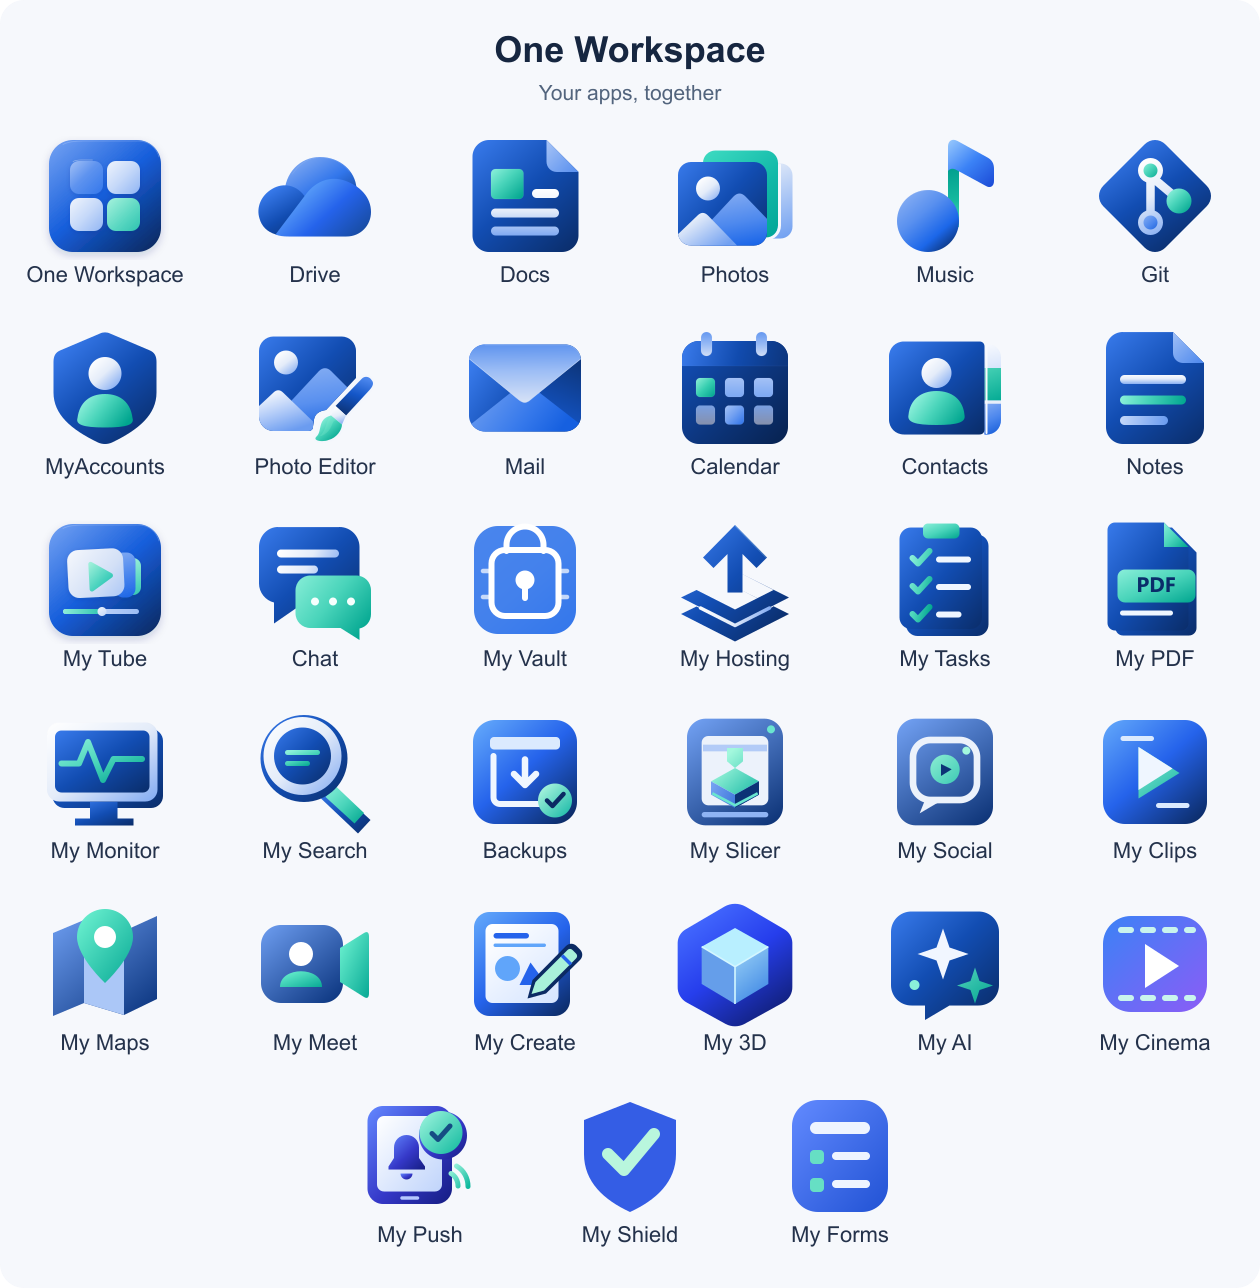
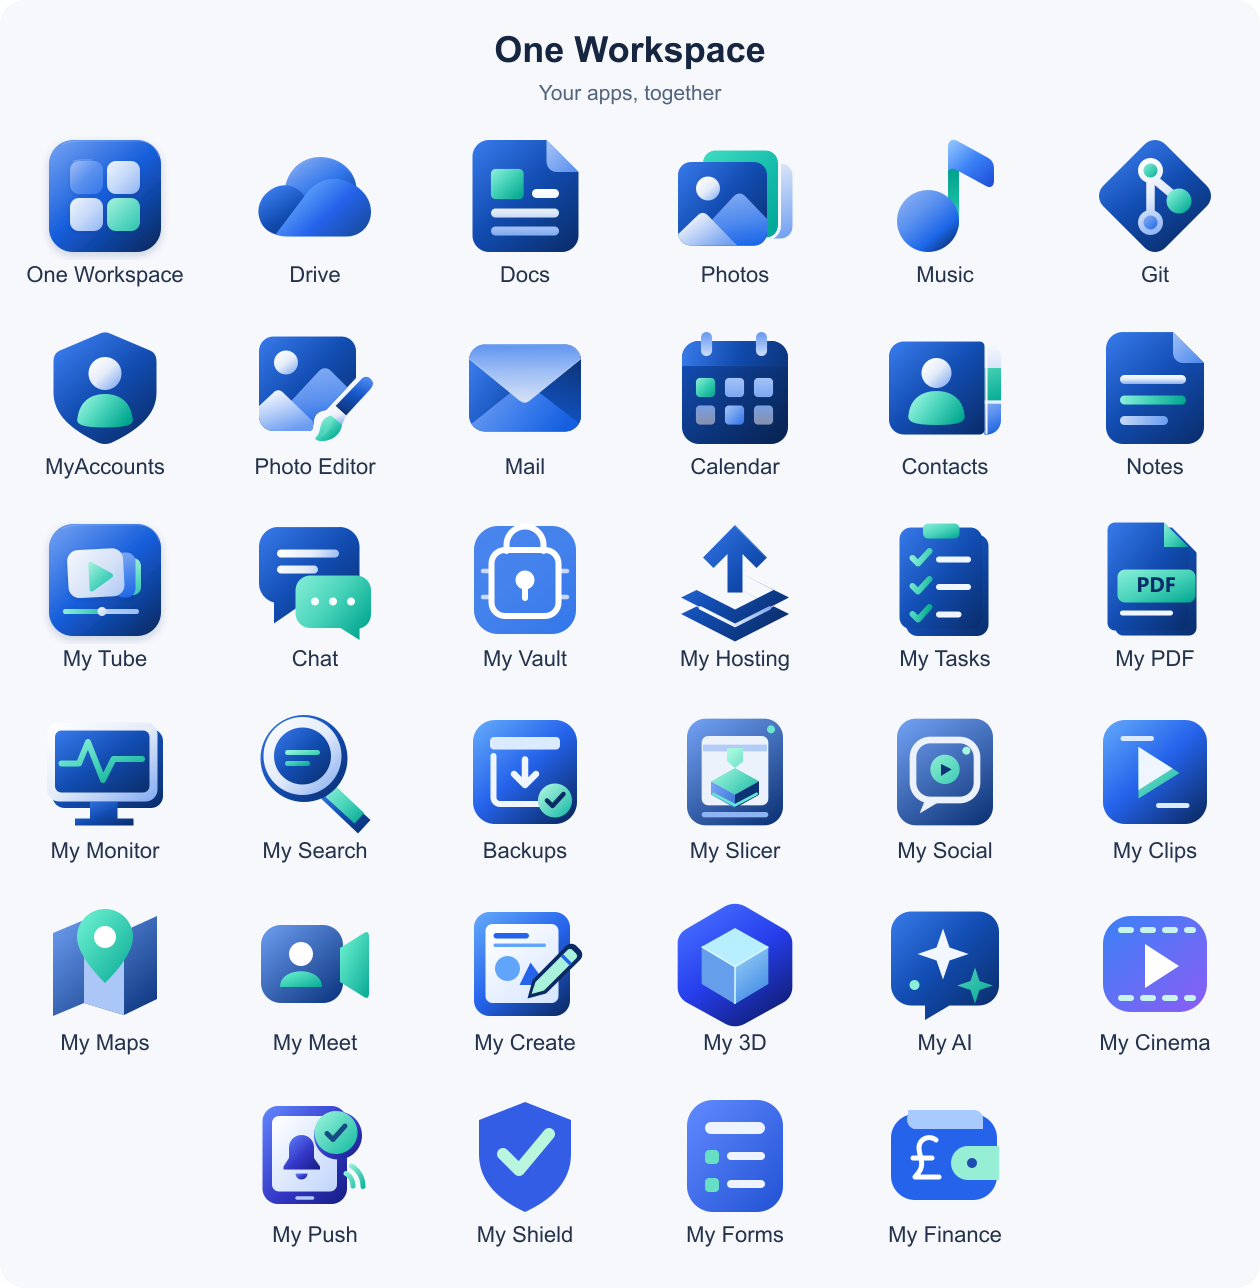
Integrate Actual-backed My Finance with managed identity and protected updates

Changed region(s): [[0.1857, 0.8385, 0.8048, 0.9627]]

diff --git a/docs/branding/index.html b/docs/branding/index.html
@@ -2,6 +2,6 @@
 <html lang="en"><head><meta charset="utf-8"><meta name="viewport" content="width=device-width,initial-scale=1"><title>One Workspace logos</title><link rel="icon" href="../../internal/branding/icons/one_workspace.svg"><style>
 *{box-sizing:border-box}body{margin:0;background:#f4f6fb;color:#17233b;font:16px system-ui,sans-serif}main{max-width:1180px;margin:40px auto;padding:0 26px}header{display:flex;gap:20px;align-items:center;margin-bottom:32px}header img{width:72px;height:72px}h1{font-size:32px;margin:0 0 8px;letter-spacing:-1px}p{margin:0;color:#65718a}.grid{display:grid;grid-template-columns:repeat(4,1fr);gap:20px}article{background:white;border:1px solid #dfe5ef;border-radius:18px;overflow:hidden}h2{font-size:16px;margin:20px}.samples{display:flex;align-items:center;justify-content:center;gap:18px;height:136px;background:repeating-conic-gradient(#edf0f6 0% 25%,white 0% 50%) 50%/20px 20px}.samples img{width:80px;height:80px}.dark{background:#11182a}.small{display:flex;align-items:center;gap:14px;padding:20px;color:#7b879b;font-size:12px}.small img{flex:none}@media(max-width:850px){.grid{grid-template-columns:repeat(2,1fr)}}@media(max-width:450px){.grid{grid-template-columns:1fr}}
 </style></head><body><main><header><img src="../../internal/branding/icons/one_workspace.svg" alt=""><div><h1>One Workspace</h1><p>The complete app collection · shared blue artwork</p></div></header><div class="grid" id="logos"></div></main><script>
-const apps=[["one_workspace","One Workspace"],["my_drive","Drive"],["my_office","Docs"],["my_photos","Photos"],["my_music","Music"],["my_git","Git"],["my_accounts","MyAccounts"],["photo_editor","Photo Editor"],["my_mail","Mail"],["my_calendar","Calendar"],["my_contacts","Contacts"],["my_notes","Notes"],["my_tube","My Tube"],["my_chat","Chat"],["my_vault","My Vault"],["my_hosting","My Hosting"],["my_tasks","My Tasks"],["my_pdf","My PDF"],["my_monitor","My Monitor"],["my_search","My Search"],["backups","Backups"],["my_slicer","My Slicer"],["my_social","My Social"],["my_clips","My Clips"],["my_maps","My Maps"],["my_meet","My Meet"],["my_create","My Create"],["my_3d","My 3D"],["my_ai","My AI"],["my_cinema","My Cinema"],["my_push","My Push"],["my_shield","My Shield"],["my_forms","My Forms"]];
+const apps=[["one_workspace","One Workspace"],["my_drive","Drive"],["my_office","Docs"],["my_photos","Photos"],["my_music","Music"],["my_git","Git"],["my_accounts","MyAccounts"],["photo_editor","Photo Editor"],["my_mail","Mail"],["my_calendar","Calendar"],["my_contacts","Contacts"],["my_notes","Notes"],["my_tube","My Tube"],["my_chat","Chat"],["my_vault","My Vault"],["my_hosting","My Hosting"],["my_tasks","My Tasks"],["my_pdf","My PDF"],["my_monitor","My Monitor"],["my_search","My Search"],["backups","Backups"],["my_slicer","My Slicer"],["my_social","My Social"],["my_clips","My Clips"],["my_maps","My Maps"],["my_meet","My Meet"],["my_create","My Create"],["my_3d","My 3D"],["my_ai","My AI"],["my_cinema","My Cinema"],["my_push","My Push"],["my_shield","My Shield"],["my_forms","My Forms"],["my_finance","My Finance"]];
 document.querySelector('#logos').innerHTML=apps.map(([file,name])=>`<article><h2>${name}</h2><div class="samples"><img src="../../internal/branding/icons/${file}.svg" alt="${name}"></div><div class="samples dark"><img src="../../internal/branding/icons/${file}.svg" alt=""></div><div class="small"><img src="${file}-32.png" width="16" height="16" alt=""><img src="${file}-32.png" width="24" height="24" alt=""><img src="${file}-32.png" width="32" height="32" alt=""><span>16 · 24 · 32</span></div></article>`).join('');
 </script></body></html>

diff --git a/internal/suite/finance_test.go b/internal/suite/finance_test.go
@@ -1,0 +1,36 @@
+package suite
+
+import (
+	"github.com/oneworkspacestudio/one-workspace/internal/branding"
+	"github.com/oneworkspacestudio/one-workspace/internal/catalog"
+	"path/filepath"
+	"strings"
+	"testing"
+)
+
+func TestFinanceManagedIdentityAndProtectedLedger(t *testing.T) {
+	a := catalog.App{ID: "finance", Name: "My Finance", Kind: "process", Package: "finance", Executable: "MyFinance.exe", Port: 9024, Route: "/finance", OIDC: true, Callback: "/finance/auth/callback", Args: []string{"--data", "${DATA}/finance", "--listen", "127.0.0.1:${PORT}", "--origin", "${ORIGIN}/finance", "--no-browser"}}
+	c := NewConfig(Request{Programs: filepath.Join(t.TempDir(), "Programs"), Data: filepath.Join(t.TempDir(), "Private"), Files: filepath.Join(t.TempDir(), "Files"), Port: 23900, Mode: "local"}, catalog.Catalog{Apps: []catalog.App{a}})
+	c.Owner = "synthetic-owner"
+	a = c.Catalog.Apps[0]
+	if a.Port != 23934 || !foundationApp("finance") || appWorkingDir(c, "finance") != filepath.Join(c.Data, "finance") || !knownUpdateStorageProfile("finance") {
+		t.Fatal("Finance must have an isolated managed storage/identity contract")
+	}
+	if p := appUpdatePrivatePaths("finance"); len(p) != 1 || p[0] != "finance" || preservedUpdateData("finance/actual/server-files/account.sqlite") {
+		t.Fatal("The actual ledger and credential store must be in protected recovery")
+	}
+	rt := &Runtime{Config: c, Secrets: Secrets{Clients: map[string]Client{"finance": {ID: "synthetic-client", Secret: "synthetic-secret"}}}}
+	cmd := rt.command(a)
+	for _, want := range []string{"WORKSPACE_OWNER_SUBJECT=" + c.Owner, "WORKSPACE_HOME_URL=" + c.Origin, "WORKSPACE_OIDC_REDIRECT_URI=" + c.Origin + "/finance/auth/callback", "MYFINANCE_BACKUP_DIR=" + filepath.Join(c.Files, "One Workspace Backups", "My Finance")} {
+		found := false
+		for _, got := range cmd.Env {
+			found = found || got == want
+		}
+		if !found {
+			t.Fatal("missing Finance runtime contract")
+		}
+	}
+	if !strings.Contains(strings.Join(cmd.Args, " "), c.Origin+"/finance") || branding.Icon("finance") == branding.Icon("unknown") {
+		t.Fatal("Finance origin/icon missing")
+	}
+}

diff --git a/internal/suite/navigation.go b/internal/suite/navigation.go
@@ -102,7 +102,7 @@ func clearAppCookies(w http.ResponseWriter, r *http.Request, secure bool) {
 		"access_token_cookie": {"/", "/music/"}, "csrf_access_token": {"/", "/music/"}, "swingmusic_oidc": {"/", "/music/"},
 		"workspace_gitea": {"/", "/git", "/git/"},
 	}
-	for _, id := range []string{"shield", "push", "cinema", "myai", "my3d", "create", "maps", "meet", "clips", "social", "slicer", "tasks", "pdf", "monitor", "search"} {
+	for _, id := range []string{"finance", "shield", "push", "cinema", "myai", "my3d", "create", "maps", "meet", "clips", "social", "slicer", "tasks", "pdf", "monitor", "search"} {
 		names[id+"_session"] = []string{"/", "/" + id + "/"}
 		names[id+"_login"] = []string{"/", "/" + id + "/"}
 	}

diff --git a/internal/suite/seamless.go b/internal/suite/seamless.go
@@ -22,6 +22,7 @@ type appSignIn struct {
 
 var suiteSignIns = []appSignIn{
 	{"forms", "My Forms", "/forms", "/api/me", "/forms/auth/login", "/forms/auth/logout", []string{"forms_session"}},
+	{"finance", "My Finance", "/finance", "/api/me", "/finance/auth/login", "/finance/auth/logout", []string{"finance_session"}},
 	{"push", "My Push", "/push", "/api/me", "/push/auth/login", "/push/auth/logout", []string{"push_session"}},
 	{"shield", "My Shield", "/shield", "/api/me", "/shield/auth/login", "/shield/auth/logout", []string{"shield_session"}},
 	{"cinema", "My Cinema", "/cinema", "/api/me", "/cinema/auth/login", "/cinema/auth/logout", []string{"cinema_session"}},

diff --git a/internal/distribution/updates.go b/internal/distribution/updates.go
@@ -89,6 +89,7 @@ type updateGroup struct {
 }
 
 var updateGroups = []updateGroup{
+	{"finance", "My Finance", "my-finance", []string{"finance"}},
 	{"shield", "My Shield", "my-shield", []string{"shield"}},
 	{"forms", "My Forms", "my-forms", []string{"forms"}},
 	{"push", "My Push", "my-push", []string{"push"}},
@@ -284,6 +285,7 @@ func suiteUpdateGroups(latest catalog.Catalog) []updateGroup {
 	return groups
 }
 func updatePackageOwner(id string) string {
+	if id=="finance"||strings.HasPrefix(id,"finance-"){return "finance"}
 	if id == "shield" || strings.HasPrefix(id, "shield-") {
 		return "shield"
 	}

diff --git a/internal/suite/runtime.go b/internal/suite/runtime.go
@@ -200,6 +200,9 @@ func (rt *Runtime) command(app catalog.App) *exec.Cmd {
 		if app.ID == "forms" {
 			cmd.Env = append(cmd.Env, fmt.Sprintf("MYFORMS_DRIVE_URL=http://127.0.0.1:%d/_integration/forms/drive", c.Port), "MYFORMS_DRIVE_TOKEN="+formsCapability(client.Secret))
 		}
+		if app.ID == "finance" {
+			cmd.Env = append(cmd.Env, "MYFINANCE_BACKUP_DIR="+filepath.Join(c.Files, "One Workspace Backups", "My Finance"))
+		}
 		if foundationApp(app.ID) {
 			cmd.Env = append(cmd.Env, "WORKSPACE_OWNER_SUBJECT="+c.Owner, "WORKSPACE_HOME_URL="+c.Origin)
 			if app.ID == "push" {

diff --git a/internal/suite/runtime_storage.go b/internal/suite/runtime_storage.go
@@ -12,7 +12,7 @@ func appWorkingDir(c Config, app string) string {
 	switch app {
 	case "cinema", "myai", "my3d", "create", "maps", "meet", "clips", "social", "slicer", "tasks", "pdf", "monitor", "search", "accounts", "drive", "photos", "gitea", "music", "mail", "calendar", "contacts", "notes", "my-tube", "chat":
 		return filepath.Join(c.Data, app)
-	case "push", "shield", "forms":
+	case "push", "shield", "forms", "finance":
 		return filepath.Join(c.Data, app)
 	case "hosting":
 		return filepath.Join(c.Data, "my-hosting")

diff --git a/internal/suite/update_metadata.go b/internal/suite/update_metadata.go
@@ -155,6 +155,9 @@ func validateUpdateMetadata(c Config, p *UpdateMetadataPolicy) error {
 }
 
 func knownUpdateStorageProfile(id string) bool {
+	if id == "finance" {
+		return true
+	}
 	switch id {
 	case "accounts", "drive", "docs", "photos", "studio", "gitea", "music", "mail", "calendar", "contacts", "notes", "my-tube", "chat", "hosting", "vault", "slicer", "tasks", "pdf", "monitor", "search", "maps", "meet", "create", "my3d", "cinema", "myai", "clips", "social", "push", "shield", "forms":
 		return true

diff --git a/internal/suite/four_apps.go b/internal/suite/four_apps.go
@@ -16,7 +16,7 @@ import (
 )
 
 func foundationApp(id string) bool {
-	if id == "push" || id == "shield" || id == "forms" {
+	if id == "push" || id == "shield" || id == "forms" || id == "finance" {
 		return true
 	}
 	return id == "cinema" || id == "myai" || id == "my3d" || id == "create" || id == "maps" || id == "meet" || id == "clips" || id == "social" || id == "slicer" || id == "tasks" || id == "pdf" || id == "monitor" || id == "search"

diff --git a/internal/suite/update_scope.go b/internal/suite/update_scope.go
@@ -33,8 +33,8 @@ func appUpdatePrivatePaths(id string) []string {
 		return []string{id, id + "-settings.json"}
 	case "chat", "slicer", "tasks", "pdf", "monitor", "search", "maps", "meet", "create", "my3d", "cinema":
 		return []string{id}
-	case "shield":
-		return []string{"shield"}
+	case "shield", "finance":
+		return []string{id}
 	case "forms":
 		return []string{"forms", "forms-drive"}
 	case "hosting":

diff --git a/internal/branding/branding.go b/internal/branding/branding.go
@@ -73,6 +73,7 @@ func Handler() http.Handler {
 func Icon(app string) string {
 	name := map[string]string{
 		"forms": "my_forms",
+		"finance": "my_finance",
 		"shield":  "my_shield",
 		"push":    "my_push",
 		"backups": "backups", "calendar": "my_calendar", "contacts": "my_contacts", "drive": "my_drive", "docs": "my_office", "office": "my_office",

diff --git a/internal/suite/config.go b/internal/suite/config.go
@@ -192,6 +192,8 @@ func NewConfig(r Request, c catalog.Catalog) Config {
 			app.Port = r.Port + 32
 		case "forms":
 			app.Port = r.Port + 33
+		case "finance":
+			app.Port = r.Port + 34
 		case "search":
 			app.Port = r.Port + 21
 		case "hosting":
